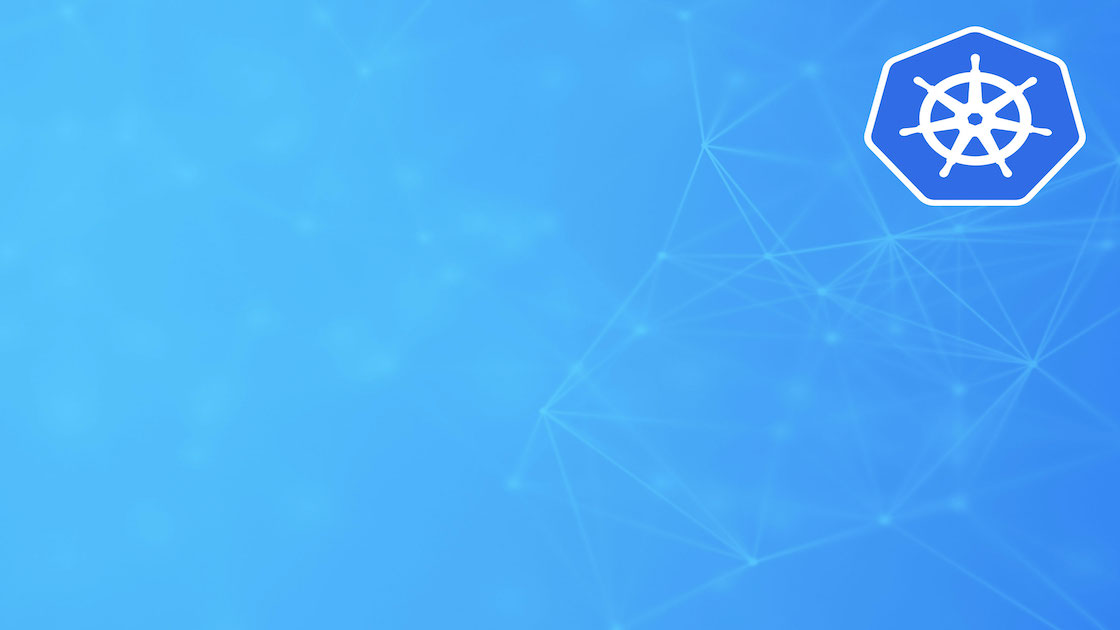
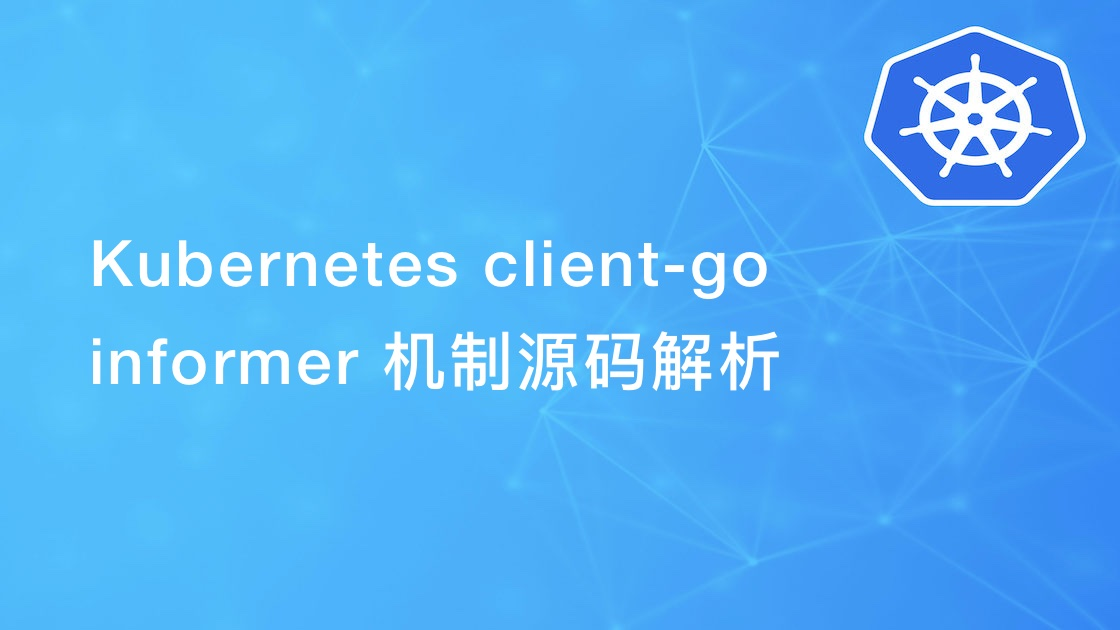
update blogs and compress images

diff --git a/content/zh/blog/client-go-informer/index.md b/content/zh/blog/client-go-informer/index.md
@@ -1,6 +1,6 @@
 ---
-title: client-go informer原理
-description: "这篇文章从Informer的初始化调用链和事件如何流向的角度分析了Informer各个组件"
+title: "Kubernetes client-go informer原理"
+description: "这篇文章从Informer的初始化调用链和事件如何流向的角度分析了Informer各个组件。"
 author: "[孙东民](https://github.com/sundongmin)"
 image: "images/blog/kubernetes-simon-banner.jpg"
 categories: ["Kubernetes"]
@@ -8,19 +8,29 @@ tags: ["client-go", "informer"]
 date: 2020-08-28T07:00:00+08:00
 type: "post"
 avatar: "/images/profile/sundongmin.jpg"
-profile: "某教育公司研发工程师, 云原生爱好者。"
+profile: "某教育公司研发工程师，云原生爱好者。"
 ---
 
 ## Informer原理图
-为了便于理解, 先上两张图
-### 下面这张图为源码的调用流程
-可以对照着图中的代码文件及代码行数跟下代码   
-注: 图中的代码行数基于`1.15`版
+
+为了便于理解，先上两张图。
+
+### 源码的调用流程图
+
+可以对照着图中的代码文件及代码行数跟下代码。
+
+注: 图中的代码行数基于`1.15`版。
+
 ![informer](./images/informer.png)
-### 下面这张图是用到的数据结构
+
+### 数据结构图
+
 ![informer-data-structure](./images/informer-data-structure.png)
+
 ## Informer 工厂
-先来看下`cmd/kube-controller-manager/app/controllermanager.go:162`的`Run`方法
+
+先来看下`cmd/kube-controller-manager/app/controllermanager.go:162`的`Run`方法。
+
 ```go
 func Run(c *config.CompletedConfig, stopCh <-chan struct{}) error {
 ...
@@ -74,9 +84,12 @@ func Run(c *config.CompletedConfig, stopCh <-chan struct{}) error {
 }
 ...
 ```
-上面代码中比较重要的几个方法`CreateControllerContext`, `StartControllers`, `controllerContext.InformerFactory.Start`
+
+上面代码中比较重要的几个方法`CreateControllerContext`, `StartControllers`, `controllerContext.InformerFactory.Start`。
+
 ### 创建ControllerContext
-再次进入`CreateControllerContext`方法中, 一直跟下去, 最终会调用到`vendor/k8s.io/client-go/informers/factory.go:108`的`NewSharedInformerFactoryWithOptions`方法
+再次进入`CreateControllerContext`方法中, 一直跟下去, 最终会调用到`vendor/k8s.io/client-go/informers/factory.go:108`的`NewSharedInformerFactoryWithOptions`方法。
+
 ```go
 func NewSharedInformerFactoryWithOptions(client kubernetes.Interface, defaultResync time.Duration, options ...SharedInformerOption) SharedInformerFactory {
 	factory := &sharedInformerFactory{
@@ -96,9 +109,13 @@ func NewSharedInformerFactoryWithOptions(client kubernetes.Interface, defaultRes
 	return factory
 }
 ```
-从上面的代码中, `sharedInformerFactory`结构体中, 有一个`informers`的`map`, 这个map的key为资源类型, value为关注该资源类型的Informer
+
+从上面的代码中, `sharedInformerFactory`结构体中，有一个`informers`的`map`，这个map的key为资源类型，value为关注该资源类型的Informer。
+
 ### 启动所有内置的Controller
-再来看`StartControllers`方法, 调用`StartControllers`之前, 会先调用`NewControllerInitializers`方法
+
+再来看`StartControllers`方法, 调用`StartControllers`之前, 会先调用`NewControllerInitializers`方法。
+
 ```go
 func NewControllerInitializers(loopMode ControllerLoopMode) map[string]InitFunc {
 	controllers := map[string]InitFunc{}
@@ -109,8 +126,10 @@ func NewControllerInitializers(loopMode ControllerLoopMode) map[string]InitFunc 
 	return controllers
 }
 ```
-通过这个方法可以返回所有的内置controller, 这里map中的value存的只是相应的回调函数, 此时还没调用, 在`StartControllers`方法中会实际调用.   
-接下来调用StartControllers方法
+通过这个方法可以返回所有的内置controller, 这里map中的value存的只是相应的回调函数, 此时还没调用, 在`StartControllers`方法中会实际调用。
+
+接下来调用StartControllers方法。
+
 ```go
 func StartControllers(ctx ControllerContext, startSATokenController InitFunc, controllers map[string]InitFunc, unsecuredMux *mux.PathRecorderMux) error {
     ...
@@ -294,7 +313,7 @@ func (s *sharedIndexInformer) Run(stopCh <-chan struct{}) {
 	s.controller.Run(stopCh)
 }
 ```
-`sharedIndexInformer`的`Run`方法代码不多, 但是很重要, 这块逻辑即为第一张图中粉红色的地方, 主要做了下面几件事:
+`sharedIndexInformer`的`Run`方法代码不多，但是很重要，这块逻辑即为第一张图中粉红色的地方，主要做了下面几件事：
 
 1. 初始化fifo队列
 2. 初始化controller
@@ -303,9 +322,10 @@ func (s *sharedIndexInformer) Run(stopCh <-chan struct{}) {
 5. 运行controller(此controller非XXXController)
 
 接下来, 看下这几件事情的详细过程
+
 #### sharedIndexInformer
 
-我们先把视线拉回到上面第一张图片的最右侧, 因为这块做了一些初始化的工作, 以便后面的逻辑使用
+我们先把视线拉回到上面第一张图片的最右侧, 因为这块做了一些初始化的工作，以便后面的逻辑使用。
 
 ```go
 func NewSharedIndexInformer(lw ListerWatcher, objType runtime.Object, defaultEventHandlerResyncPeriod time.Duration, indexers Indexers) SharedIndexInformer {
@@ -521,7 +541,7 @@ func (p *processorListener) run() {
 }
 ```
 
-listener 包含了 Controller 注册进来的 Handler 方法，因此 listener 最重要的职能就是当事件发生时来触发这些方法.  
+listener 包含了 Controller 注册进来的 Handler 方法，因此 listener 最重要的职能就是当事件发生时来触发这些方法。
 
 可以看到，`listener.run` 不停的从 `nextCh` 这个 channel 中拿到事件，但是 `nextCh` 这个 channel 里的事件又是从哪来的呢？`listener.pop` 的职责便是将事件放入 `nextCh` 中。
 
@@ -565,7 +585,7 @@ func (p *processorListener) pop() {
 
 而另一方面，会判断 buffer 中是否还有事件，如果还有存量，则不停的传递给 `nextCh`。
 
-`pop` 方法实现了一个带 buffer 的分发机制，使得事件可以源源不断的从 `addCh` 到 `nextCh`
+`pop` 方法实现了一个带 buffer 的分发机制，使得事件可以源源不断的从 `addCh` 到 `nextCh`。
 
 #### 运行controller
 
@@ -600,7 +620,7 @@ func (c *controller) Run(stopCh <-chan struct{}) {
 
 ##### 初始化Reflector并启动
 
-`Reflector`通过 sharedIndexInformer 里定义的 `listerWatcher` 进行 List-Watch，并将获得的事件推入 DeltaFIFO 中, `controller` 启动之后会先将 `Reflector` 启动
+`Reflector`通过 sharedIndexInformer 里定义的 `listerWatcher` 进行 List-Watch，并将获得的事件推入 DeltaFIFO 中, `controller` 启动之后会先将 `Reflector` 启动。
 
 ##### 执行c.processLoop
 
@@ -621,7 +641,7 @@ func (c *controller) processLoop() {
 }
 ```
 
-通过一个死循环，不停的将从 DeltaFIFO 读出需要处理的资源事件, 然后交给`c.config.Process`函数处理, 在前面初始化controller时, `c.config.Process`被赋值为`s.HandleDeltas`
+通过一个死循环，不停的将从 DeltaFIFO 读出需要处理的资源事件, 然后交给`c.config.Process`函数处理, 在前面初始化controller时, `c.config.Process`被赋值为`s.HandleDeltas`。
 
 ```go
 func (s *sharedIndexInformer) HandleDeltas(obj interface{}) error {
@@ -656,7 +676,7 @@ func (s *sharedIndexInformer) HandleDeltas(obj interface{}) error {
 }
 ```
 
-这里调用了`s.indexer.Add` `s.indexer.Update` `s.indexer.Delete`以及`s.processor.distribute`
+这里调用了`s.indexer.Add` `s.indexer.Update` `s.indexer.Delete`以及`s.processor.distribute`。
 
 `s.indexer.Add` `s.indexer.Update` `s.indexer.Delete`最后都调用了`queueActionLocked`方法
 
@@ -708,11 +728,16 @@ func (p *processorListener) add(notification interface{}) {
 }
 ```
 
-可以看到, `distribute`方法调用`listener.add`, `listener.add`会将事件发送到`addCh`
+可以看到, `distribute`方法调用`listener.add`, `listener.add`会将事件发送到`addCh`。
 
-至此, 整个事件流就打通了, 如下图
+至此, 整个事件流就打通了，如下图。
+
 ![informer-event-stream](./images/informer-event-stream.png)
+
 ## 总结
-Informer机制是kubernetes的核心, 了解清楚这个机制, 后续理解controller manager就容易多了, 而且也能更得心应手的编写自定义的controller.
+
+Informer机制是kubernetes的核心, 了解清楚这个机制, 后续理解controller manager就容易多了, 而且也能更得心应手的编写自定义的controller。
+
 ## 参考资料
-- [Source code](https://github.com/kubernetes/client-go)
+
+- [client-go 源码](https://github.com/kubernetes/client-go)

diff --git a/content/zh/blog/client-go-study/index.md b/content/zh/blog/client-go-study/index.md
@@ -7,11 +7,9 @@ categories: ["Kubernetes"]
 tags: ["client-go"]
 date: 2020-08-07 21:28:37
 type: "post"
-avatar: "/images/profile/luffyao.png"
+avatar: "/images/profile/luffyao.jpg"
 profile: "爱立信上海研发工程师，云原生爱好者。"
 ---
-
-## 前言
 
 目前在云原生社区的 Kubernetes 源码研习社中和广大学友们共同学习郑东旭大佬的 [Kubernetes 源码剖析](https://item.jd.com/12665791.html)这本书。当前正在开展第一期学习活动，第五章节 client-go 的学习。之所以从这一章节开始学习，主要是考虑到 client-go 在源码中相对比较独立，可以单独阅读。更主要的是它是 Kubernetes 的核心处理框架，基本上运用在 Kubernetes 各个组件中，因此，如果你学好了这一章节，对于后面 Kubernetes 源码的阅读，将会有很大的帮助。此外随着 Operator 的盛行，一些开源的生成框架也受到广大 Operator 开发者们的青睐。例如 kubebuilder 和 operator-SDK 等。而精通了 client-go，将对你理解这些生成框架及编写 Operator 也是有很好的帮助。
 

diff --git a/content/zh/blog/flame-graph/index.md b/content/zh/blog/flame-graph/index.md
@@ -8,7 +8,7 @@ tags: ["profile","flamegraph"]
 date: 2020-06-17T12:00:00+08:00
 type: "post"
 profile: "腾讯云研发工程师，Apache APISIX PMC，一个略逗比的 BUG hunter。"
-avatar: "/images/profile/yousa.png"
+avatar: "/images/profile/yousa.jpg"
 ---
 
 > 本文主要分享火焰图使用技巧，介绍 systemtap 的原理机制，如何使用火焰图快速定位性能问题原因，同时加深对 systemtap 的理解。

diff --git a/content/zh/blog/study-groups/index.md b/content/zh/blog/study-groups/index.md
@@ -8,7 +8,7 @@ tags: ["学习小组"]
 date: 2020-07-20T12:00:00+08:00
 type: "post"
 profile: "腾讯云研发工程师，Apache APISIX PMC"
-avatar: "/images/profile/yousa.png"
+avatar: "/images/profile/yousa.jpg"
 ---
 
 IT 技术日新月异，想必每个 IT 人都会有类似的焦虑：我该学习什么？哪些知识学到就是赚到？怎样学习才能最有效提升编程能力？

diff --git a/content/zh/blog/compile-bpf-examples/index.md b/content/zh/blog/compile-bpf-examples/index.md
@@ -8,7 +8,7 @@ image: "images/blog/ebpf-workflow-101.png"
 categories: ["BPF"]
 tags: ["源码分析","Linux内核"]
 type: "post"
-avatar: "/images/profile/nevermosby.png"
+avatar: "/images/profile/nevermosby.jpg"
 
 ---
 
